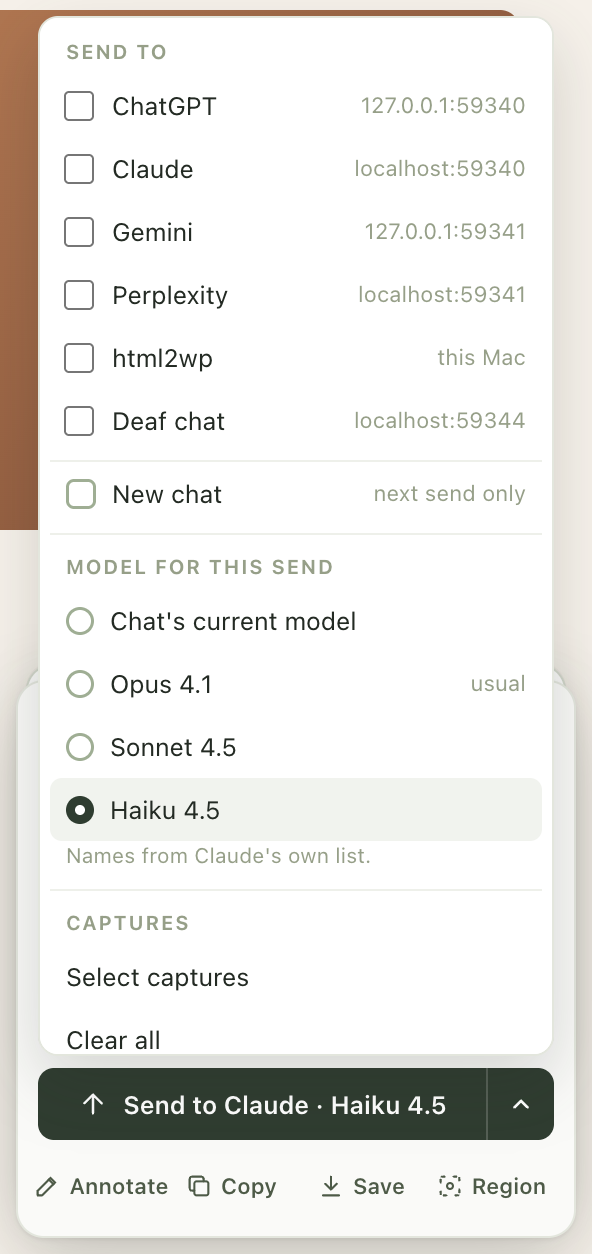
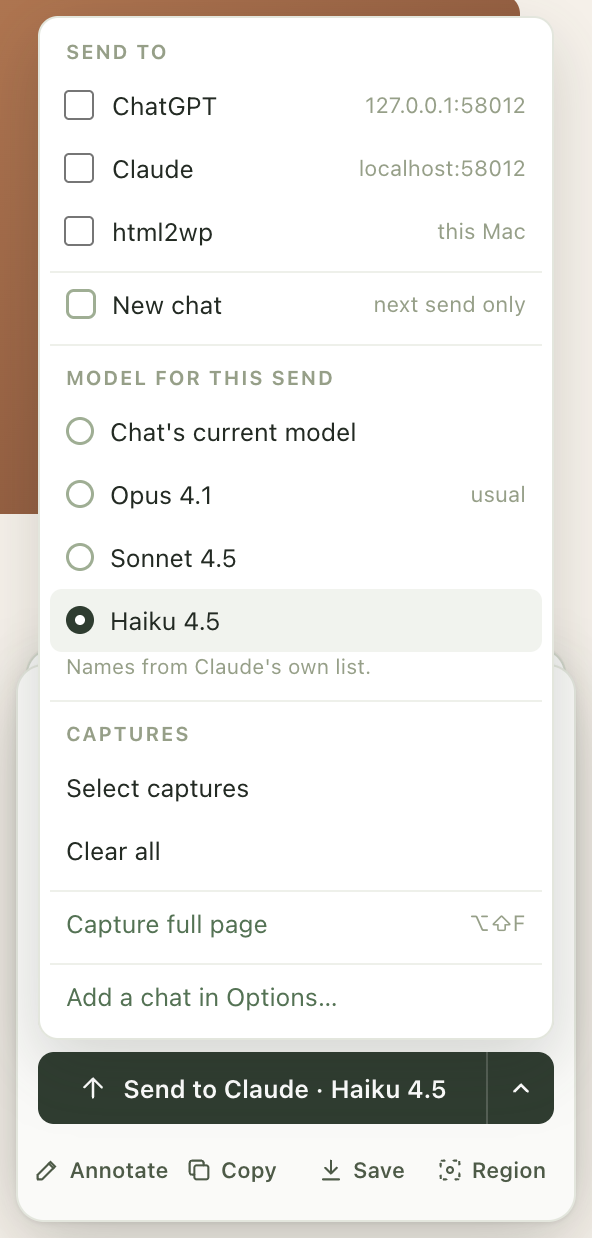
Model: a card keeps its one-send model, lists are read once per popup, upsells close gently
A model (or New chat) chosen in a card's menu for one send is kept with that
capture, so it survives another capture coming in front, or the stack being
put away and shown again; it is cleared once that card sends. The popup
reads each chat's list at most once while it is open, as it said. An upgrade
dialog that a model choice opened is closed with its own close button, else
Escape, never with its other buttons. The model test now brings a card back
after another capture and checks its model is still the one chosen.

Claude-Session: https://claude.ai/code/session_01Xf7wTz9XZFZ1GCWzDzHaWW

diff --git a/src/card.js b/src/card.js
@@ -767,7 +767,8 @@
         // The card's model for this send (the menu's, or "Send with current
         // model"); otherwise the service worker uses the owner's choice.
         const model = typeof forced === 'string' ? forced : typeof entry.model === 'string' && destination.id === o.main.id ? entry.model : undefined;
-        entry.model = undefined;
+        entry.model = null;
+        persist(entry.id, { model: null, newChat: false });
         const r = await ask({ type: 'card-send', id: entry.id, destination: destination.id, text, acknowledge: destination.origin, newChat, model });
         setBusy(false);
         chat.tabId = r?.tabId;
@@ -835,7 +836,7 @@
       setBusy(true, `Sending ${list.length}…`);
       const text = list.map((e) => (e.message || '').trim()).filter(Boolean).join('\n\n');
       const newChat = !!now()?.newChat;
-      if (now()) now().newChat = false;
+      if (now()) { now().newChat = false; persist(now().id, { newChat: false }); }
       const r = await ask({ type: 'send-captures', ids: list.map((e) => e.id), text, acknowledge: d.origin || null, newChat });
       setBusy(false);
       const sent = new Set(r?.sentIds || []);
@@ -895,6 +896,7 @@
         fresh.addEventListener('click', () => {
           if (!entry) return;
           entry.newChat = !entry.newChat;
+          persist(entry.id, { newChat: entry.newChat });
           fresh.setAttribute('aria-checked', String(entry.newChat));
           label();
         });
@@ -920,6 +922,7 @@
           b.addEventListener('click', () => {
             if (!entry) return;
             entry.model = value;
+            persist(entry.id, { model: value });
             for (const x of rows) x.setAttribute('aria-checked', String(x.dataset.value === value));
             label();
           });

diff --git a/src/popup.js b/src/popup.js
@@ -55,7 +55,7 @@ const optionText = (d, s) => {
 // else its typical names, labelled as such. Kept per chat.
 const ago = (at) => { const m = Math.round((Date.now() - at) / 60000); return m < 1 ? 'just now' : m < 60 ? `${m} min ago` : `${Math.round(m / 60)} h ago`; };
 const READ_EVERY = 10 * 60 * 1000;
-let asked = null;
+const asked = new Set();
 function renderModels(d) {
   const view = modelView(loaded, d);
   $('model-row').hidden = !view;
@@ -70,8 +70,8 @@ function renderModels(d) {
     : view.note ? `${d.name}: ${view.note}. Keep ${d.name} open in a tab to read its list.`
     : `Typical names. Keep ${d.name} open in a tab, signed in, to read its own list.`;
   // Read again from the chat's own picker (in the tab kept open), now and then.
-  if (Date.now() - view.at > READ_EVERY && asked !== d.id) {
-    asked = d.id;
+  if (Date.now() - view.at > READ_EVERY && !asked.has(d.id)) {
+    asked.add(d.id);
     chrome.runtime.sendMessage({ type: 'read-models', destination: d.id }).catch(() => {});
   }
 }

diff --git a/src/picker.js b/src/picker.js
@@ -148,8 +148,11 @@
     press(item.el);
     const outcome = await until(() => (upsell() && 'plan') || (shows(model, item.name) && 'shown') || (!menus.some((m) => m.isConnected && visible(m)) && 'closed'), 2500);
     if (outcome === 'plan' || upsell()) {
-      const said = flat(upsell()?.innerText || upsell()?.textContent).slice(0, 160);
-      key(document, 'Escape');
+      const dialog = upsell();
+      const said = flat(dialog?.innerText || dialog?.textContent).slice(0, 160);
+      // The dialog's own close button, else Escape (never its other buttons).
+      const shut = dialog && [...dialog.querySelectorAll('button[aria-label*="close" i], button[aria-label*="dismiss" i], [data-testid*="close" i]')].find(visible);
+      if (shut) press(shut); else if (dialog) key(dialog, 'Escape');
       return done({ ok: false, reason: 'modelPlan', detail: said || null });
     }
     await close(model, trigger, menus);

diff --git a/src/flow.js b/src/flow.js
@@ -76,6 +76,8 @@ export async function showStack(tabId, { currentId = null, fresh = null, autoSen
     entries.push({
       id: c.id, thumb: await base64(c.thumb), meta: c.meta, note: c.note, message: c.message || '', result: c.result || null,
       sent: !!c.sent, selected: !!c.selected, saved: c.saved || null, answer: c.answer || null, asked: c.asked || '',
+      // The card's one-send choices: a model (null: the usual one) and New chat.
+      model: typeof c.model === 'string' ? c.model : null, newChat: !!c.newChat,
       region: { canRemember: !!(c.region && site), hasSaved: !!(site && s.regions[site]) },
     });
   }

diff --git a/src/background.js b/src/background.js
@@ -66,7 +66,7 @@ chrome.tabs.onRemoved.addListener((tabId) => { stopAnswersFor(tabId); clearStack
 const handlers = {
   // The card keeps each capture's message, result and state here.
   'stack-update': async (m) => {
-    const allowed = ['message', 'result', 'sent', 'selected', 'saved'];
+    const allowed = ['message', 'result', 'sent', 'selected', 'saved', 'model', 'newChat'];
     await updateCapture(m.id, Object.fromEntries(Object.entries(m.patch || {}).filter(([k]) => allowed.includes(k))));
     return { ok: true };
   },
